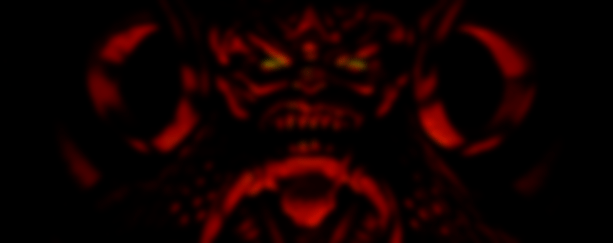
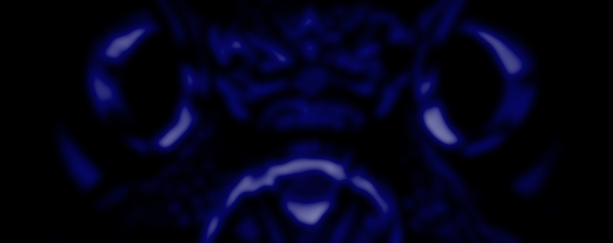
Blue D1 Theme
I just blue it.

diff --git a/_body.scss b/_body.scss
@@ -1,7 +1,7 @@
 @import 'colors';
 
 body {
-  background: $red5;
+  background: $bluebg;
   font-family: Arial, Helvetica, sans-serif;
   color: $post-text-color;
 }
@@ -28,7 +28,7 @@ button, .usertable>.toggle {
   padding: 8px !important;
   text-transform: capitalize;
   background: $red2;
-  border: 1px solid $red-highlight;
+  border: 1px solid $bluebborder;
   border-radius: 2px;
   color: $link-color;
   @include vendor-prefix(transition, background 0.5s);
@@ -40,16 +40,16 @@ button, .usertable>.toggle {
 }
 
 input {
-  border: 1px solid $red-highlight;
-  background: $red5;
+  border: 1px solid $bluebborder;
+  background: $bluebg;
   color: $post-text-color;
   padding: 8px;
   border-radius: 2px;
 }
 
 .drop-choices { 
-  background-color: $red5;
-  border: 1px solid $red2;
+  background-color: $bluebg;
+  border: 1px solid $bluebborder;
   border-radius: 2px;
   padding: 8px;
   line-height: 2;
@@ -84,7 +84,7 @@ input {
 
   form {
     background: $red2;
-    border-top: 1px solid $red2;
+    border-top: 1px solid $bluebborder;
     padding: 8px;
 
     input {
@@ -146,8 +146,8 @@ input {
 
       .linkflairlabel,
       .flair {
-        border-color: $red-highlight;
-        background-color: $red2;
+        border-color: $bluebborder;
+        background-color: $bluebg;
       }
     }
   }
@@ -173,8 +173,8 @@ input {
     font-size: 14px;
 
     a {
-      background: $red5;
-      border: 1px solid $red3;
+      background: $bluebg;
+      border: 1px solid bluebborder;
       padding: 8px;
       font-variant: small-caps;
     }
@@ -186,7 +186,7 @@ ul.report-reasons {
   color: $post-text-color;
   border: none;
   border-radius: 0px;
-  border-left: 1px solid $red2;
+  border-left: 1px solid $bluebborder;
 }
 
 .md {

diff --git a/_header.scss b/_header.scss
@@ -3,7 +3,7 @@
 
 #header {
   background: url($diablo) center bottom no-repeat $header-background-color;
-  border-bottom: 1px solid $red3;
+  border-bottom: 1px solid $bluebg;
   height: 263px;
   position: relative;
   z-index: 4;
@@ -41,9 +41,9 @@
   }
 
   #sr-header-area {
-    background: $red5;
+    background: $bluebg;
     padding: 4px 0px 4px 0px;
-    border-bottom: 1px solid $red3;
+    border-bottom: 1px solid $bluebborder;
     margin-right: 450px;
 
     .width-clip {
@@ -55,7 +55,7 @@
     .sr-bar .separator,
     .separator,
     #sr-more-link {
-      color: $red1;
+      color: $bluetext;
     }
 
     .dropdown.srdrop .selected {
@@ -64,7 +64,7 @@
     }
 
     #sr-more-link {
-      background-color: $red5;
+      background-color: $bluebg;
     }
 
     .drop-choices {
@@ -91,8 +91,8 @@
         &.selected a {
           border: none;
           border-top: none;
-          color: $red1;
-          border-bottom: 2px solid $red1;
+          color: $blueselected;
+          border-bottom: 2px solid $blueselected;
         }
 
         &:first-child {
@@ -127,13 +127,13 @@
   }
 
   #header-bottom-right {
-    background: $red5;
+    background: $bluebg;
     top: 0px;
     bottom: auto;
     width: 450px;
     display: block;
     padding: 7px 16px 6px 0px;
-    border-bottom: 1px solid $red3;
+    border-bottom: 1px solid $bluebborder;
     text-align: right;
 
     .user {

diff --git a/_listings.scss b/_listings.scss
@@ -8,17 +8,17 @@
 #siteTable,
 #siteTable_organic {
   display: block;
-  background: $red4;
-  border: 1px solid $red3;
+  background: $blueentry;
+  border: 1px solid $bluebborder;
   border-radius: 2px;
 
   .link.promotedlink.promoted {
-    background-color: $red4;
+    background-color: $blueentry;
   }
 
   .thing.link,
   .thing.link.promoted.promotedlink {
-    border-bottom: 2px solid $red5;
+    border-bottom: 2px solid $bluebborder;
     padding: 16px;
     margin: 0px;
     position: relative;
@@ -29,7 +29,7 @@
 
     &.last-clicked {
       border: none;
-      border-bottom: 2px solid $red5;
+      border-bottom: 2px solid $bluebborder;
     }
 
     .entry p.title {
@@ -81,7 +81,7 @@
     }
 
     .domain {
-      color: $red4;
+      color: $blueentry;
 
       &:before {
         color: $link-domain-color;
@@ -153,7 +153,7 @@
     }
 
     a.title:visited {
-      color: $red1;
+      color: $bluetext;
     }
 
     &.stickied a.title:visited {
@@ -168,7 +168,7 @@
 
     .buttons li.reported-stamp {
       background-color: transparent;
-      border-color: $red-highlight !important;
+      border-color: $bluebborder !important;
     }
 
     &.linkflair .midcol {
@@ -212,7 +212,7 @@
 
     .media-embed, .usertext-body .md {
       margin-left: 99px;
-      border-left: 2px solid $red2;
+      border-left: 2px solid $bluebborder;
       padding-left: 8px;
     }
   }

diff --git a/_thread.scss b/_thread.scss
@@ -163,9 +163,9 @@
       $rule: $rule + ' .comment';
       #{$rule} {
           @if $i % 2 == 0 {
-              background-color: $comment-background-color !important;
+              background-color: $bluebg !important;
           } @else {
-              background-color: $comment-background-color-alt !important;
+              background-color: $blueentry !important;
           }
       }
   }

diff --git a/_colors.scss b/_colors.scss
@@ -43,3 +43,10 @@ $comment-background-color-alt: $red3;
 
 $roundfield-background-color: #000;
 $roundfield-input-background-color: #000;
+
+
+$blueentry: #0e2a3d;
+$bluebg: #0c1619;
+$bluebborder: #0f1a24;
+$bluetext: #50738b;
+$blueselected: #49a4e1;

diff --git a/_res.scss b/_res.scss
@@ -96,4 +96,7 @@ body {
     border-radius: 2px;
     color: $post-text-color;
   }
+  #srList {
+    background-color: $bluebg;
+  }
 }
